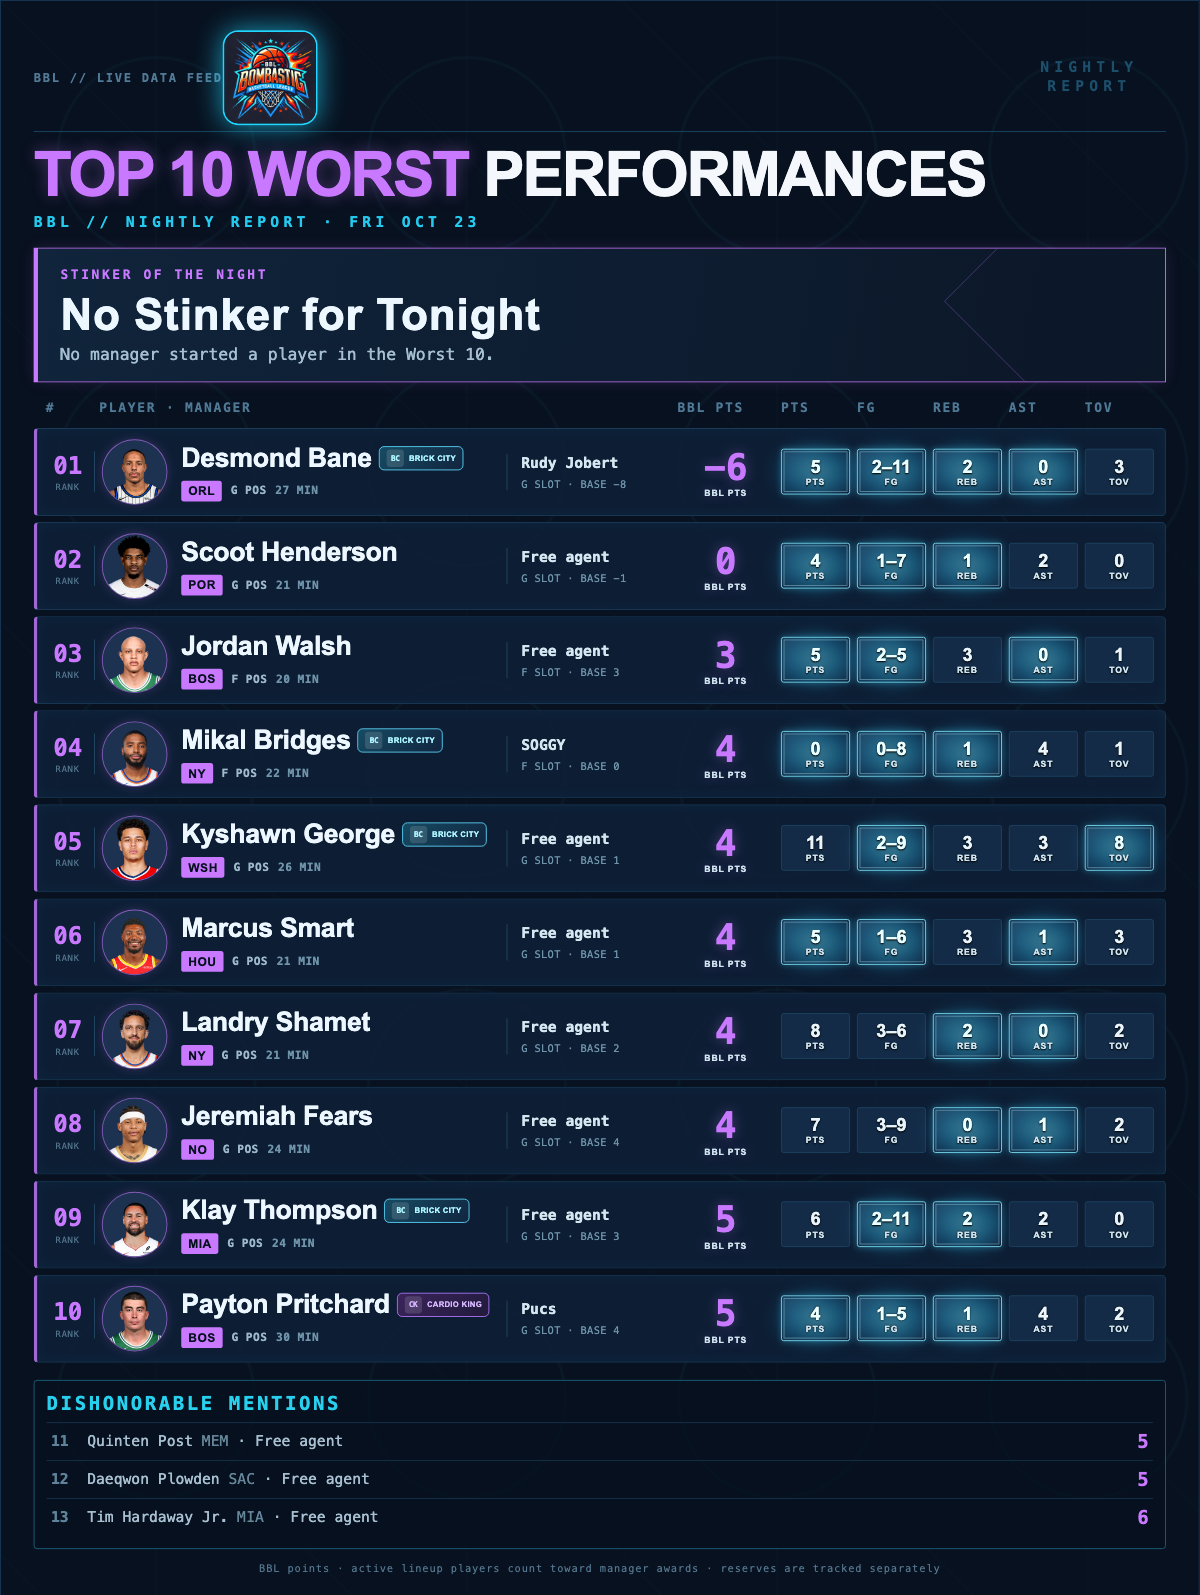
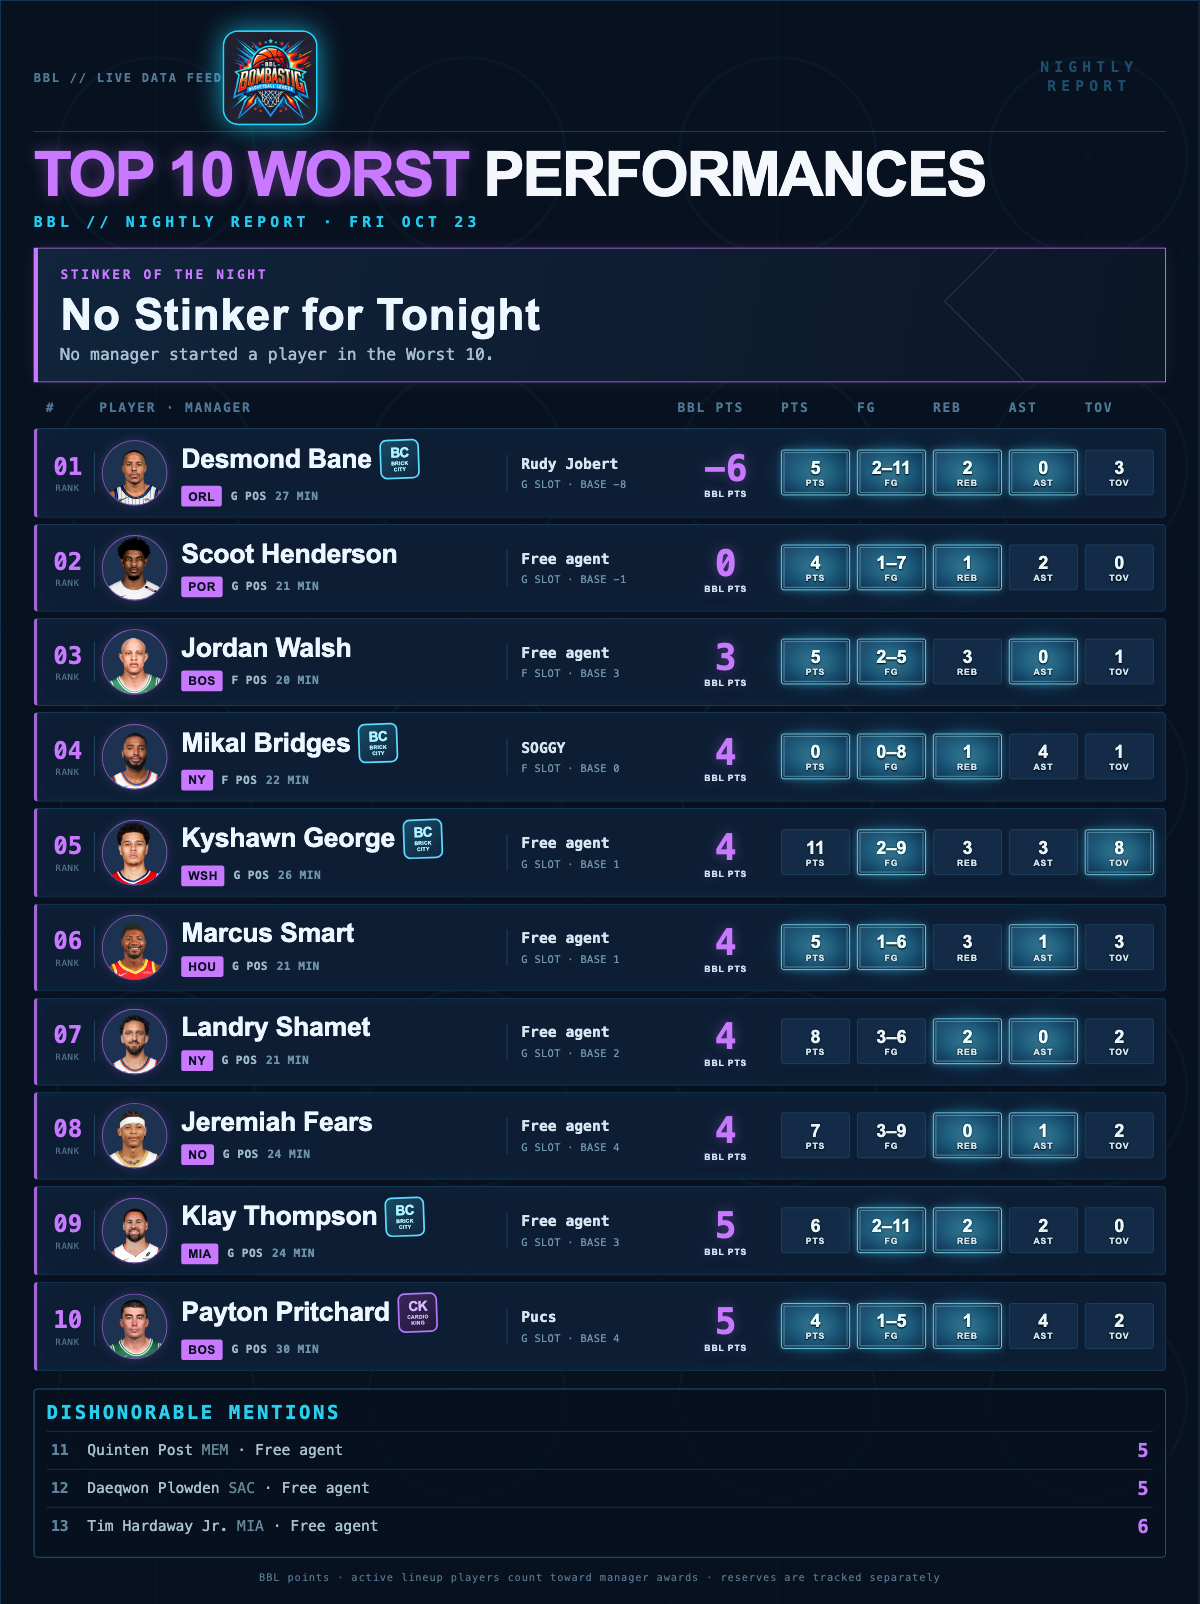
Create square award emblem badges

diff --git a/bbl/social_cards.py b/bbl/social_cards.py
@@ -149,7 +149,7 @@ h1{{font-size:62px;line-height:.9;margin:0;color:#f4f7fb;letter-spacing:-2px;tex
 .label{{font:700 14px monospace;letter-spacing:3px;color:{accent};text-transform:uppercase}}.award h2{{font-size:42px;letter-spacing:1px;margin:7px 0 3px}}.award p{{font:17px monospace;margin:0;color:#a6c0d2}}
 .cols,.row{{display:grid;grid-template-columns:54px 1fr 112px {stat_columns};gap:8px;align-items:center}}.cols{{padding:0 14px 6px;color:#4e7894;font:700 13px monospace;letter-spacing:2px;text-transform:uppercase}}
 .row{{background:rgba(14,31,53,.94);border:1px solid #1b3c5b;border-left:4px solid {accent}cc;border-radius:5px;padding:9px 12px;margin:6px 0;box-shadow:inset 0 0 18px rgba(30,170,230,.05)}}.row:hover{{border-color:{accent}}}.rank{{font:700 24px monospace;color:{accent};text-align:center;border-right:1px solid #244965;padding-right:8px}}.rank small{{display:block;font:9px monospace;color:#52758d;letter-spacing:1px;margin-top:3px}}
- .who{{display:grid;grid-template-columns:70px minmax(0,1fr) 190px;gap:12px;align-items:center;min-width:0}}.who b{{display:block;font-size:24px;letter-spacing:-.4px;white-space:nowrap;overflow:hidden;text-overflow:ellipsis}}.headshot{{width:66px;height:66px;object-fit:cover;border-radius:50%;background:#1d3150;border:1px solid {accent}99;box-shadow:0 0 12px {accent}33}}.headshot.placeholder{{background:linear-gradient(135deg,#162c47,#0a1627)}}.name-line{{display:flex;align-items:center;gap:8px;min-width:0}}.name-line b{{min-width:0}}.player-meta{{display:flex;align-items:center;gap:8px;margin-top:6px;white-space:nowrap}}.who .team{{display:inline-block;color:#07111e;background:{accent};border-radius:3px;padding:3px 7px;font:800 12px Arial,sans-serif;letter-spacing:.6px}}.position,.minutes{{color:#9db9ca;font:700 12px monospace;letter-spacing:.5px}}.minutes{{color:#6f94aa}}.badge{{display:inline-flex;align-items:center;gap:6px;flex:0 0 auto;height:28px;padding:3px 8px 3px 4px;border:1px solid;border-radius:6px;font:900 9px Arial,sans-serif;letter-spacing:.3px;white-space:nowrap;box-shadow:inset 0 0 8px #ffffff18,0 0 8px currentColor44}}.badge i{{display:grid;place-items:center;width:20px;height:20px;border-radius:4px;background:#ffffff22;font:900 9px monospace;font-style:normal;letter-spacing:-.5px}}.badge strong{{font:900 9px Arial,sans-serif}}.badge-triple{{color:#74ecff;border-color:#35d8ff;background:linear-gradient(135deg,#123d59,#0b203b)}}.badge-double{{color:#ffd36b;border-color:#ffad32;background:linear-gradient(135deg,#553516,#2b1b25)}}.badge-cardio{{color:#d8b8ff;border-color:#b477ff;background:linear-gradient(135deg,#3b245b,#211b3b)}}.badge-brick{{color:#aef5ff;border-color:#5ddcff;background:linear-gradient(135deg,#164b63,#12253f)}}.details{{min-width:0;border-left:1px solid #244965;padding-left:14px}}.details small{{display:block;color:#d5e7f0;font:700 15px monospace;white-space:nowrap;overflow:hidden;text-overflow:ellipsis}}.details em{{display:block;color:#6f94aa;font:11px monospace;font-style:normal;margin-top:7px;letter-spacing:.4px;white-space:nowrap}}
+ .who{{display:grid;grid-template-columns:70px minmax(0,1fr) 190px;gap:12px;align-items:center;min-width:0}}.who b{{display:block;font-size:24px;letter-spacing:-.4px;white-space:nowrap;overflow:hidden;text-overflow:ellipsis}}.headshot{{width:66px;height:66px;object-fit:cover;border-radius:50%;background:#1d3150;border:1px solid {accent}99;box-shadow:0 0 12px {accent}33}}.headshot.placeholder{{background:linear-gradient(135deg,#162c47,#0a1627)}}.name-line{{display:flex;align-items:center;gap:9px;min-width:0}}.name-line b{{min-width:0}}.player-meta{{display:flex;align-items:center;gap:8px;margin-top:6px;white-space:nowrap}}.who .team{{display:inline-block;color:#07111e;background:{accent};border-radius:3px;padding:3px 7px;font:800 12px Arial,sans-serif;letter-spacing:.6px}}.position,.minutes{{color:#9db9ca;font:700 12px monospace;letter-spacing:.5px}}.minutes{{color:#6f94aa}}.badge{{display:inline-flex;flex:0 0 auto;width:46px;height:46px;align-items:center;justify-content:center;flex-direction:column;gap:1px;padding:3px;border:2px solid;border-radius:8px;font:900 9px Arial,sans-serif;letter-spacing:.2px;white-space:normal;text-align:center;box-shadow:inset 0 0 10px #ffffff18,0 0 9px currentColor55;transform:rotate(-2deg)}}.badge i{{display:block;background:none;font:900 16px/16px Arial,sans-serif;font-style:normal;letter-spacing:-1px}}.badge strong{{display:block;font:900 6px/7px Arial,sans-serif;letter-spacing:.2px;max-width:40px}}.badge-triple{{color:#74ecff;border-color:#35d8ff;background:linear-gradient(145deg,#123d59,#0b203b)}}.badge-double{{color:#ffd36b;border-color:#ffad32;background:linear-gradient(145deg,#553516,#2b1b25)}}.badge-cardio{{color:#d8b8ff;border-color:#b477ff;background:linear-gradient(145deg,#3b245b,#211b3b)}}.badge-brick{{color:#aef5ff;border-color:#5ddcff;background:linear-gradient(145deg,#164b63,#12253f)}}.details{{min-width:0;border-left:1px solid #244965;padding-left:14px}}.details small{{display:block;color:#d5e7f0;font:700 15px monospace;white-space:nowrap;overflow:hidden;text-overflow:ellipsis}}.details em{{display:block;color:#6f94aa;font:11px monospace;font-style:normal;margin-top:7px;letter-spacing:.4px;white-space:nowrap}}
 .score{{color:{accent};font:800 31px monospace;text-align:center;text-shadow:0 0 15px {accent}55}}.score small,.stat small{{display:block;font:8px monospace;color:#7394aa;letter-spacing:1px}}.stat{{position:relative;z-index:1;background:#132b47;border:1px solid #1d4564;border-radius:3px;text-align:center;padding:5px 2px;font:700 16px monospace;overflow:visible;isolation:isolate}}.stat.hot{{border:2px solid #ffad32;box-shadow:0 0 5px #ffb000,0 0 15px #ff4b1f99;color:#fff8dd;background:linear-gradient(180deg,#5b2417,#261925)}}.stat.hot:before{{content:"";position:absolute;z-index:-1;left:-8px;right:-8px;top:-15px;bottom:-9px;background:linear-gradient(150deg,#ffd45a 0 10%,transparent 11% 22%,#ff7a18 23% 35%,transparent 36% 49%,#ff3219 50% 64%,transparent 65% 78%,#ff9b20 79% 90%,transparent 91%);clip-path:polygon(0 100%,3% 54%,16% 68%,18% 20%,29% 52%,42% 0,53% 49%,66% 14%,75% 53%,89% 5%,94% 59%,100% 35%,100% 100%);filter:drop-shadow(0 0 8px #ff4b1f);pointer-events:none}}.stat.hot:after{{content:"";position:absolute;inset:2px;border:1px solid #ffd36b99;background:linear-gradient(180deg,transparent,#ff5a1a33);pointer-events:none}}.stat.cold{{border:2px solid #b9fbff;box-shadow:0 0 6px #b9fbff,0 0 18px #28cfff99;color:#edffff;background:linear-gradient(135deg,#d8ffff 0 4%,#3caed2 6% 12%,#153b5b 13% 82%,#0a223b 83%)}}.stat.cold:before{{content:"";position:absolute;z-index:-1;inset:-7px;background:linear-gradient(135deg,#dfffff,#55e9ff 20%,#135b88 48%,#a9f8ff 72%,#1b719c);clip-path:polygon(0 8%,18% 15%,28% 0,43% 13%,59% 3%,74% 17%,100% 7%,88% 31%,100% 50%,87% 66%,100% 93%,76% 84%,63% 100%,48% 87%,28% 100%,19% 85%,0 94%,11% 69%,0 51%,12% 32%);filter:drop-shadow(0 0 7px #46eaff);pointer-events:none}}.stat.cold:after{{content:"";position:absolute;inset:2px;background:linear-gradient(125deg,transparent 27%,#e7ffff99 28% 31%,transparent 32% 56%,#bdfaff77 57% 60%,transparent 61%);pointer-events:none}}.stat span{{position:relative;z-index:1}}.stat small{{position:relative;z-index:1}}.stat:not(.hot):not(.cold) span{{color:#e9f4fb}}.stat:not(.hot):not(.cold){{color:#fff}}
 .section{{border:1px solid #1c6682;border-radius:4px;margin-top:18px;padding:13px;background:rgba(5,17,31,.72)}}.section h3{{color:#28d0ed;font:700 19px monospace;letter-spacing:3px;margin:0 0 8px}}.mention{{display:grid;grid-template-columns:42px 1fr 70px;align-items:center;border-top:1px solid #17354e;padding:8px 4px;color:#a8c0d1;font:15px monospace}}.mention b{{color:#5e839a}}.mention i{{font-style:normal;color:#66869a}}.mention strong{{color:{accent};text-align:right;font:700 20px monospace}}
  footer{{margin-top:18px;text-align:center;color:#52758d;font:11px monospace;letter-spacing:1px}}
